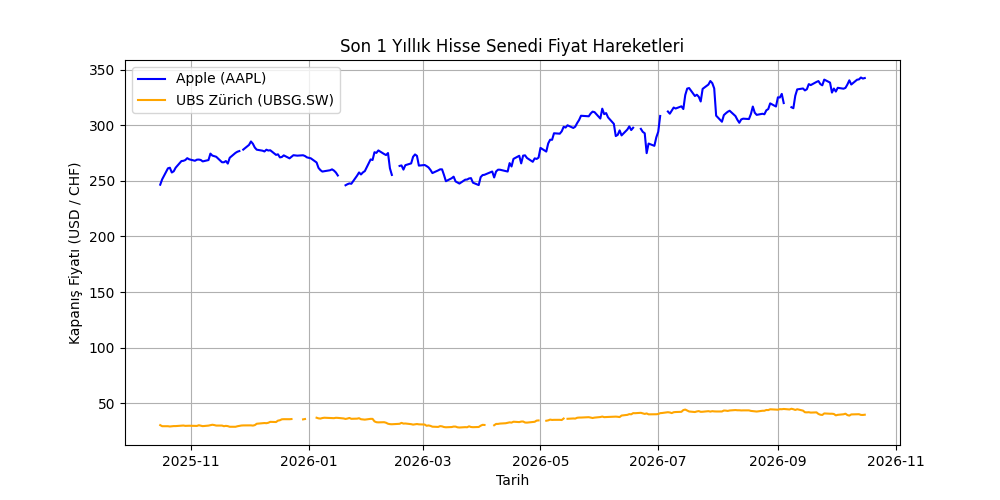
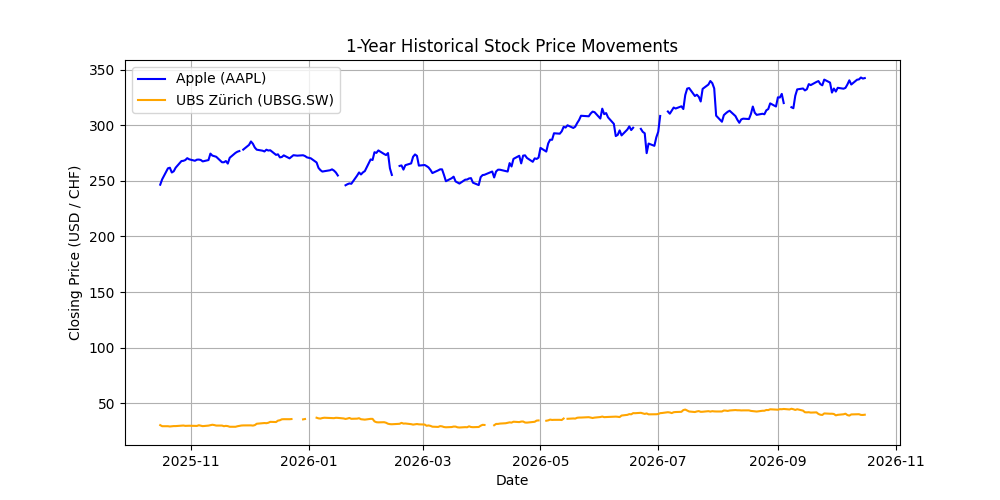
Fix matplotlib title method and update chart

Changed region(s): [[0.341, 0.06, 0.682, 0.12], [0.062, 0.33, 0.093, 0.69], [0.496, 0.93, 0.527, 0.99]]

diff --git a/main.py b/main.py
@@ -37,7 +37,7 @@ print("\nGenerating stock price chart...")
 plt.figure(figsize=(10, 5))
 plt.plot(df.index, df["AAPL"], label="Apple (AAPL)", color="blue")
 plt.plot(df.index, df["UBSG.SW"], label="UBS Zürich (UBSG.SW)", color="orange")
-plt.setTitle("1-Year Historical Stock Price Movements")
+plt.title("1-Year Historical Stock Price Movements")
 plt.xlabel("Date")
 plt.ylabel("Closing Price (USD / CHF)")
 plt.legend()
